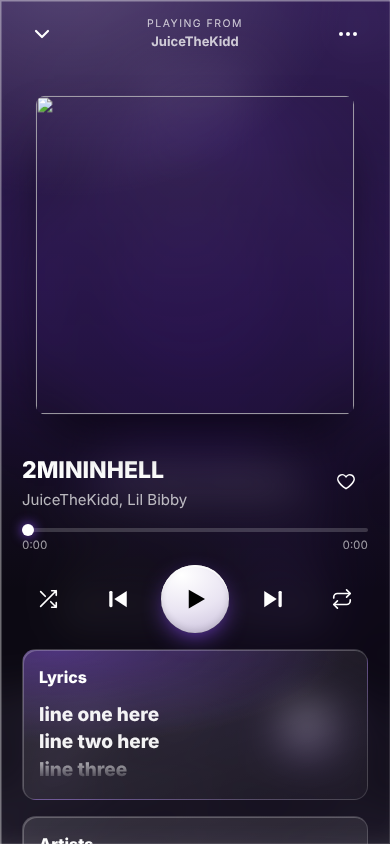
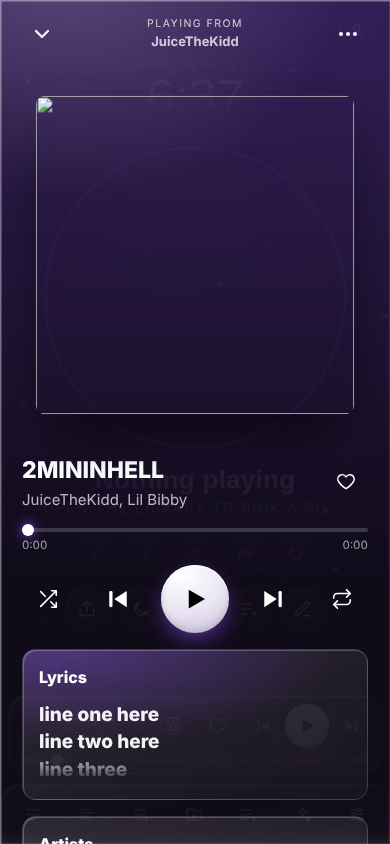
v74: phone performance (lighter glass, 30fps background, fewer style recalcs)

Changed region(s): [[0.6769, 0.8009, 0.8923, 0.9242], [0.4615, 0.5545, 0.5846, 0.5853]]

diff --git a/index.html b/index.html
@@ -2,7 +2,7 @@
 <html lang="en">
 <head>
 <meta charset="utf-8">
-<meta name="abyss-version" content="73">
+<meta name="abyss-version" content="74">
 <meta name="viewport" content="width=device-width,initial-scale=1,maximum-scale=1,user-scalable=no,viewport-fit=cover">
 <meta name="theme-color" content="#07060a">
 <title>Abyss</title>
@@ -1172,6 +1172,16 @@ dialog::backdrop,#cnSheet .cnBg{background:rgba(3,2,6,.35)!important}
 #cnStrip{background:linear-gradient(160deg,rgba(80,255,150,.55),rgba(30,215,96,.35))!important;color:#fff!important;border:1px solid rgba(160,255,200,.45)!important;-webkit-backdrop-filter:blur(16px) saturate(1.8);backdrop-filter:blur(16px) saturate(1.8);box-shadow:inset 1px 1px 0 rgba(255,255,255,.45),0 10px 30px -10px rgba(30,215,96,.6)!important;text-shadow:0 1px 2px rgba(0,0,0,.35)}
 .cnH{letter-spacing:0!important;font-size:12px!important;font-weight:600}
 #cnSheet h3{font-weight:700}
+
+/* v74: phones: lighter glass so everything stays fast */
+@media (max-width:700px){
+  dialog,.glass,#bar,.dock,#panel,#plWin,#qWin,#lyr:not(.full),#ctx,#updPop,#cnSheet .cnCard,#qk .qkBox,#toast,#relNote,#upNext,#volHud,#authScr .asCard,#dStats,#fp,#dSet,#dHelp{
+    -webkit-backdrop-filter:blur(14px) saturate(1.5)!important;backdrop-filter:blur(14px) saturate(1.5)!important}
+  #panel,#plWin,#qWin,#lyr:not(.full),#fp,dialog,#dSet,#dHelp{-webkit-backdrop-filter:none!important;backdrop-filter:none!important;background-color:rgba(16,12,24,.94)!important}
+  #toast,#relNote,#upNext,#volHud{-webkit-backdrop-filter:none!important;backdrop-filter:none!important;background-color:rgba(22,16,32,.92)!important}
+  *{-webkit-tap-highlight-color:transparent}html,body,button,a{touch-action:manipulation}
+  .row,.shf button,#mActs button,.dock button{transition-duration:.12s!important}
+}
 </style>
 </head>
 <body style="--art:none">
@@ -1701,13 +1711,14 @@ function sample(t){if(live){an.getByteFrequencyData(fd);for(let i=0;i<N;i++){con
   else{const on=audio.paused?0:1;for(let i=0;i<N;i++){const v=on*(.34+.3*Math.sin(t*2.1+i*.35)+.22*Math.sin(t*3.9+i*.8))*(1-i/N*.55);bins[i]+=(Math.max(v,0)-bins[i])*.2}}}
 function burst(p){const n=4+Math.floor(p*6);for(let i=0;i<n;i++){const a=Math.random()*6.283,v=2+Math.random()*5*(1+p);sparks.push({a,d:158*DPR,v,l:1})}}
 let dlgOpen=false;setInterval(()=>dlgOpen=!!document.querySelector('dialog[open]'),250);
-function frame(ms){requestAnimationFrame(frame);if(cfg.perf||dlgOpen||document.hidden)return;const t=ms/1000;sample(t);
+const LITE=matchMedia('(max-width:700px)').matches||/iPhone|iPad|Android/i.test(navigator.userAgent);let lastF=0;
+function frame(ms){requestAnimationFrame(frame);if(cfg.perf||dlgOpen||document.hidden)return;if(LITE){if(ms-lastF<33)return;lastF=ms}const t=ms/1000;sample(t);
   let bass=0;for(let i=0;i<6;i++)bass+=bins[i];bass/=6;avg+=(bass-avg)*.04;lvl+=(bass-lvl)*.3;
   if(!audio.paused&&bass>avg*1.22&&bass>.28&&t-beatT>.2){beatT=t;burst(bass);const pb=$('#pp');pb.classList.remove('beat');void pb.offsetWidth;pb.classList.add('beat')}
-  let dh=((hue-hueNow+540)%360)-180;hueNow=(hueNow+dh*.05+360)%360;const hr=Math.round(hueNow);if(hr!==lastHue){lastHue=hr;document.documentElement.style.setProperty('--glow','hsl('+hr+' 85% 62%)')}
+  let dh=((hue-hueNow+540)%360)-180;hueNow=(hueNow+dh*.05+360)%360;const hr=Math.round(hueNow);if(hr!==lastHue&&(!LITE||Math.abs(hr-lastHue)>=3)){lastHue=hr;document.documentElement.style.setProperty('--glow','hsl('+hr+' 85% 62%)')}
   sx+=(tx-sx)*.08;sy+=(ty-sy)*.08;
   rx+=(mx-rx)*.18;ry+=(my-ry)*.18;document.getElementById('cGlow').style.transform='translate('+rx.toFixed(1)+'px,'+ry.toFixed(1)+'px)';
-  document.body.style.setProperty('--mx',mx+'px');document.body.style.setProperty('--my',my+'px');
+  if(!LITE){document.body.style.setProperty('--mx',mx+'px');document.body.style.setProperty('--my',my+'px')}
   $('#stage').style.transform='translate('+(sx*-26).toFixed(1)+'px,'+(sy*-18).toFixed(1)+'px)';
   card.style.transform='rotateY('+(sx*20).toFixed(2)+'deg) rotateX('+(-sy*16).toFixed(2)+'deg) scale('+(1+lvl*.035).toFixed(3)+')';
   card.style.setProperty('--gx',(50+sx*90)+'%');card.style.setProperty('--gy',(30+sy*90)+'%');
